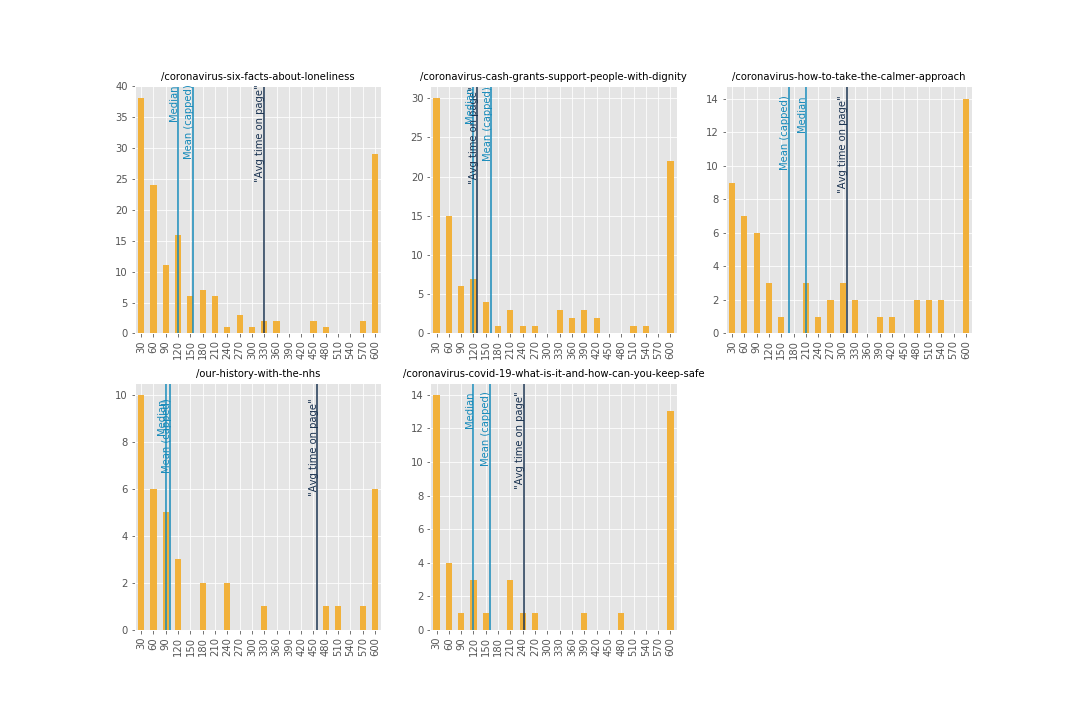
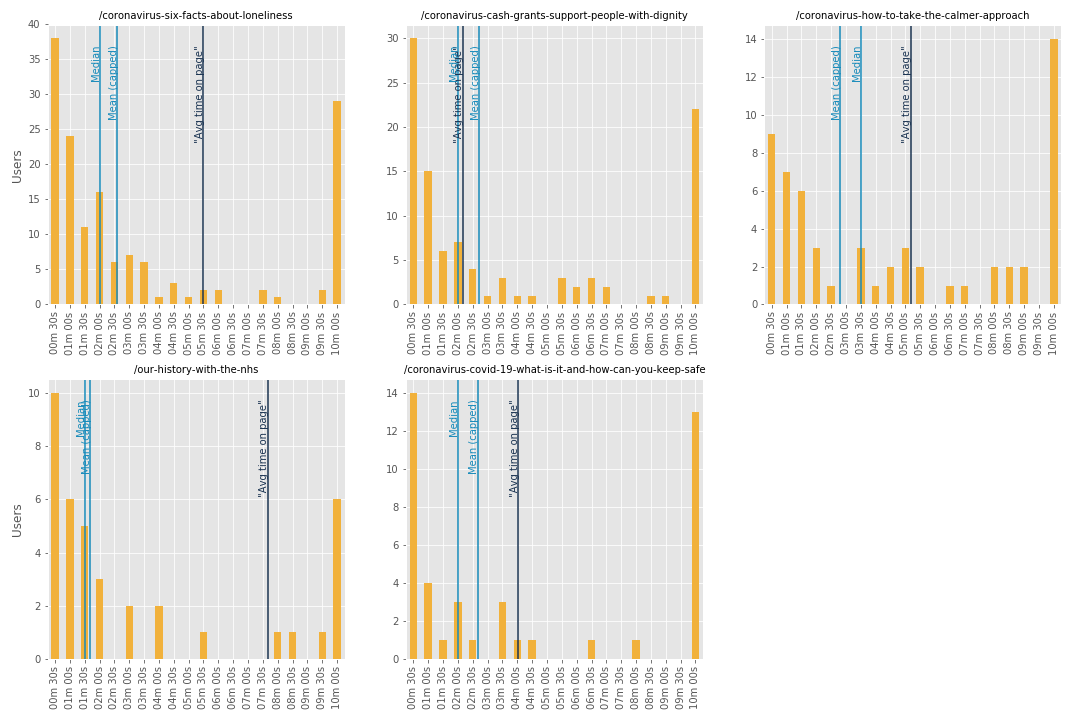
Cleaned up plot

diff --git a/plot_hist.py b/plot_hist.py
@@ -22,8 +22,9 @@ df = df[df.index.str.contains('corona') | df.index.str.contains('nhs')]
 #df[['formpage', 'payment']].drop_duplicates().sort_values(by='payment')
 #df.to_csv('AmendedData\\FormFunnel.csv')
 
-df.filter(regex=("\d{2}m \d{2}s"))
+# df.filter(regex=("\d{2}m \d{2}s"))
 
+time_minsecs = df.columns[-20:]
 time_ints = [30*i for i in range(1, 20+1)]
 new_cols = list(df.columns[:len(df.columns)-20]) + time_ints
 print(new_cols)
@@ -55,8 +56,8 @@ def add_annotate_line(text, mins, ax, color='#000000'):
     """Add a vertical line at xy, annotated with the text."""
     ymax = ax.get_ylim()[1]
     ax.axvline(x=mins_to_x(mins), color=color)
-    ax.annotate(text, (mins_to_x(mins)+0.1, ymax-1), rotation=90, ha='right',
-                color=color)
+    ax.annotate(text, (mins_to_x(mins)+0.1, ymax-ymax/10), rotation=90,
+                ha='right', color=color)
 
 
 figs, axs = plt.subplots(2, 3, figsize=(15, 10))
@@ -80,7 +81,11 @@ for (ax, page) in zip(axs.flatten(), df.index):
             break
     add_annotate_line('Median', avg_median, ax, color='#158aba')
     ax.set_title(page, fontsize=10)
+    ax.set_xticklabels(time_minsecs)
+axs[0, 0].set_ylabel('Users')
+axs[1, 0].set_ylabel('Users')
 axs[-1, -1].axis('off')
+plt.tight_layout()
 plt.savefig('Outputs\\TimeDistvsAvgTime.png')
 
 #for platform in payment_types:
